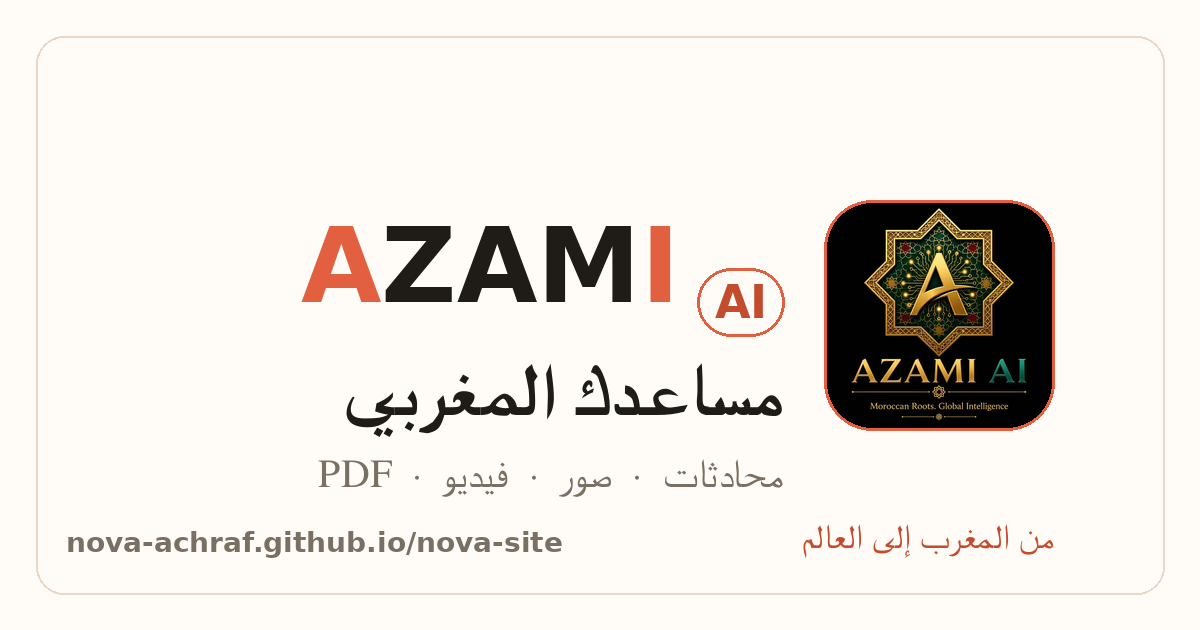
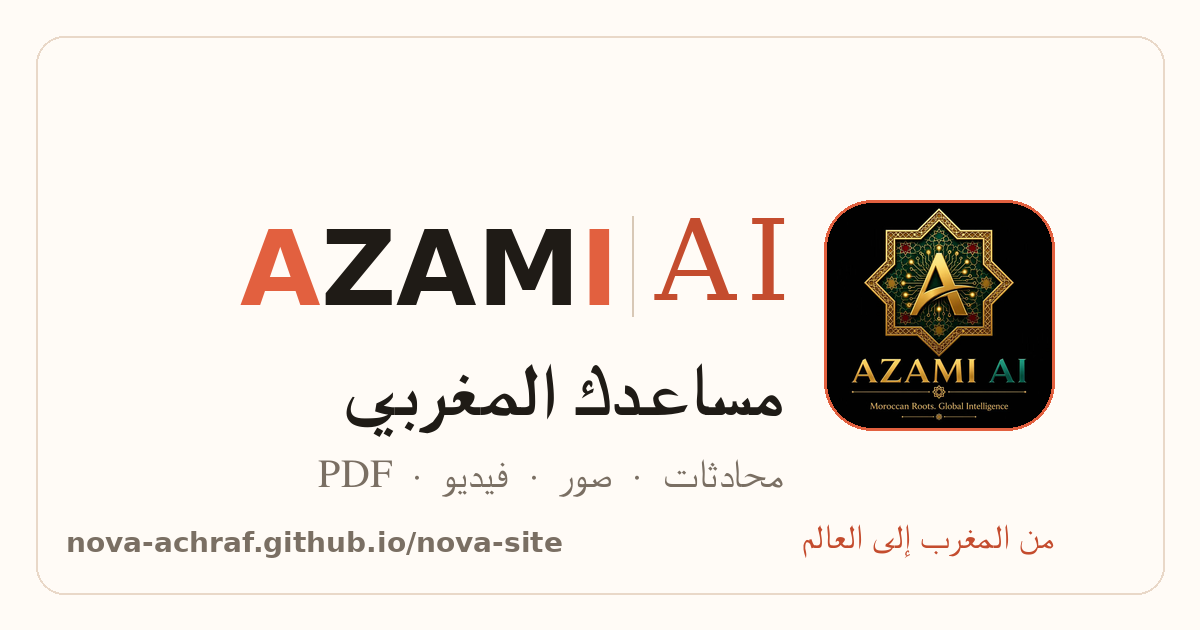
azami: imposing serif AI in share card, uselight (cream) share image

Changed region(s): [[0.185, 0.3317, 0.6783, 0.5429]]

diff --git a/azami-ai.html b/azami-ai.html
@@ -14,15 +14,15 @@
 <meta name="mobile-web-app-capable" content="yes">
 <link rel="icon" href="azami-icon-192.png" sizes="192x192">
 <link rel="shortcut icon" href="azami-icon-192.png">
-<title>AZAMI — مساعدك المغربي</title>
-<meta name="description" content="AZAMI — مساعدك المغربي. من المغرب إلى العالم.">
+<title>AZAMI AI — مساعدك المغربي</title>
+<meta name="description" content="AZAMI AI — مساعدك المغربي. من المغرب إلى العالم.">
 <!-- صورة المشاركة (واتساب / فيسبوك / تيليغرام ...) -->
 <meta property="og:type" content="website">
 <meta property="og:site_name" content="AZAMI">
 <meta property="og:title" content="AZAMI — مساعدك المغربي">
 <meta property="og:description" content="محادثات · صور · فيديو · PDF — من المغرب إلى العالم.">
-<meta property="og:image" content="https://nova-achraf.github.io/nova-site/azami-share.png">
-<meta property="og:image:secure_url" content="https://nova-achraf.github.io/nova-site/azami-share.png">
+<meta property="og:image" content="https://nova-achraf.github.io/nova-site/azami-share-light.png">
+<meta property="og:image:secure_url" content="https://nova-achraf.github.io/nova-site/azami-share-light.png">
 <meta property="og:image:type" content="image/png">
 <meta property="og:image:width" content="1200">
 <meta property="og:image:height" content="630">
@@ -32,7 +32,7 @@
 <meta name="twitter:card" content="summary_large_image">
 <meta name="twitter:title" content="AZAMI — مساعدك المغربي">
 <meta name="twitter:description" content="محادثات · صور · فيديو · PDF — من المغرب إلى العالم.">
-<meta name="twitter:image" content="https://nova-achraf.github.io/nova-site/azami-share.png">
+<meta name="twitter:image" content="https://nova-achraf.github.io/nova-site/azami-share-light.png">
 <!-- Markdown + Sanitize + Code Highlight (async = no blocking) -->
 <link rel="stylesheet" href="https://cdnjs.cloudflare.com/ajax/libs/highlight.js/11.9.0/styles/github-dark.min.css">
 <script>function onMdLoad(){if(window.marked)marked.setOptions({breaks:true,gfm:true,highlight:function(c,l){if(window.hljs){if(l&&hljs.getLanguage(l))return hljs.highlight(c,{language:l}).value;return hljs.highlightAuto(c).value}return c}})}</script>
